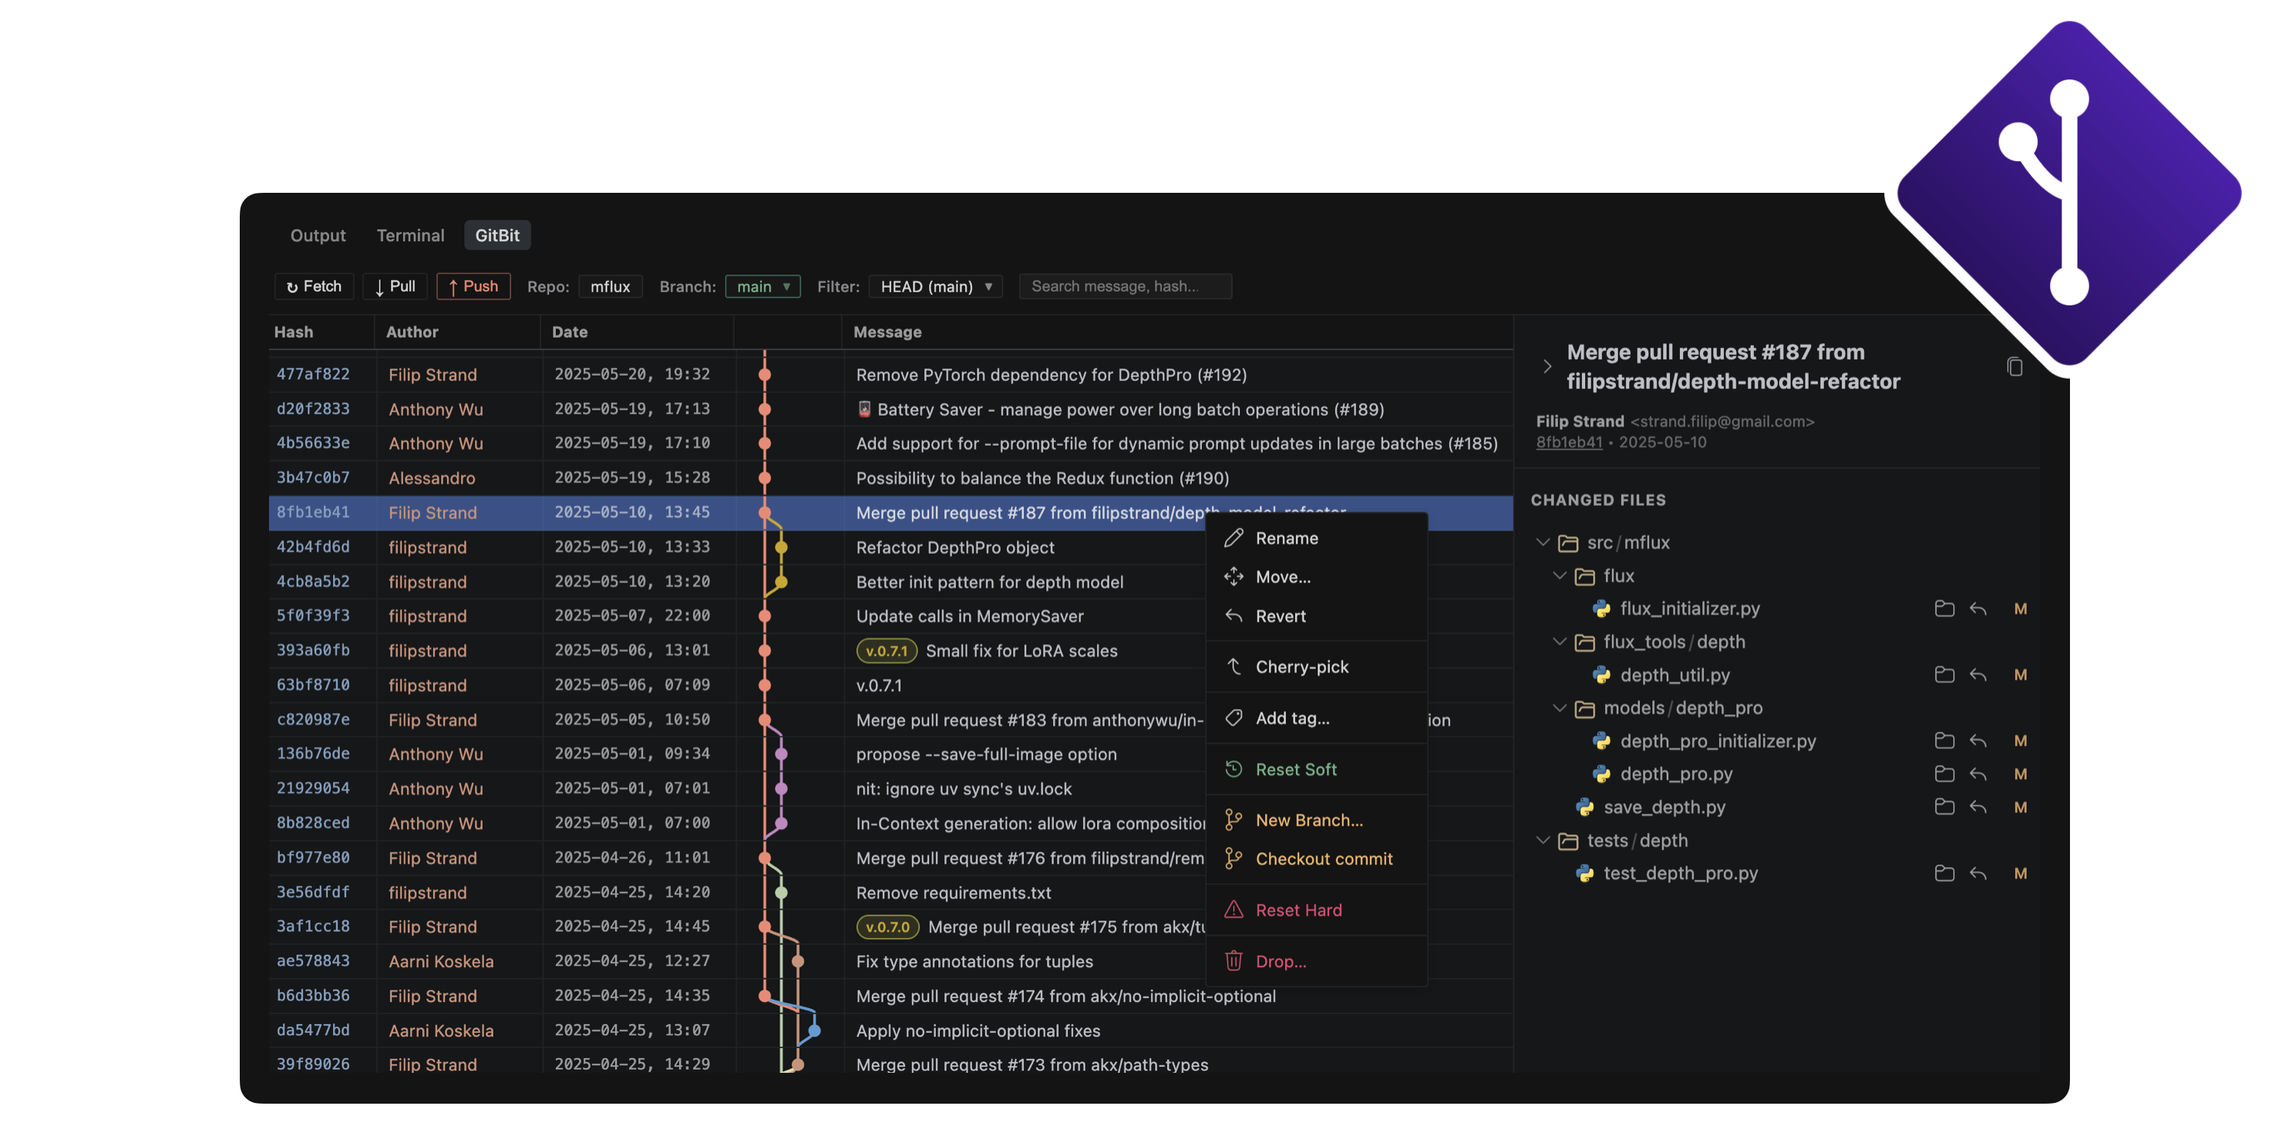
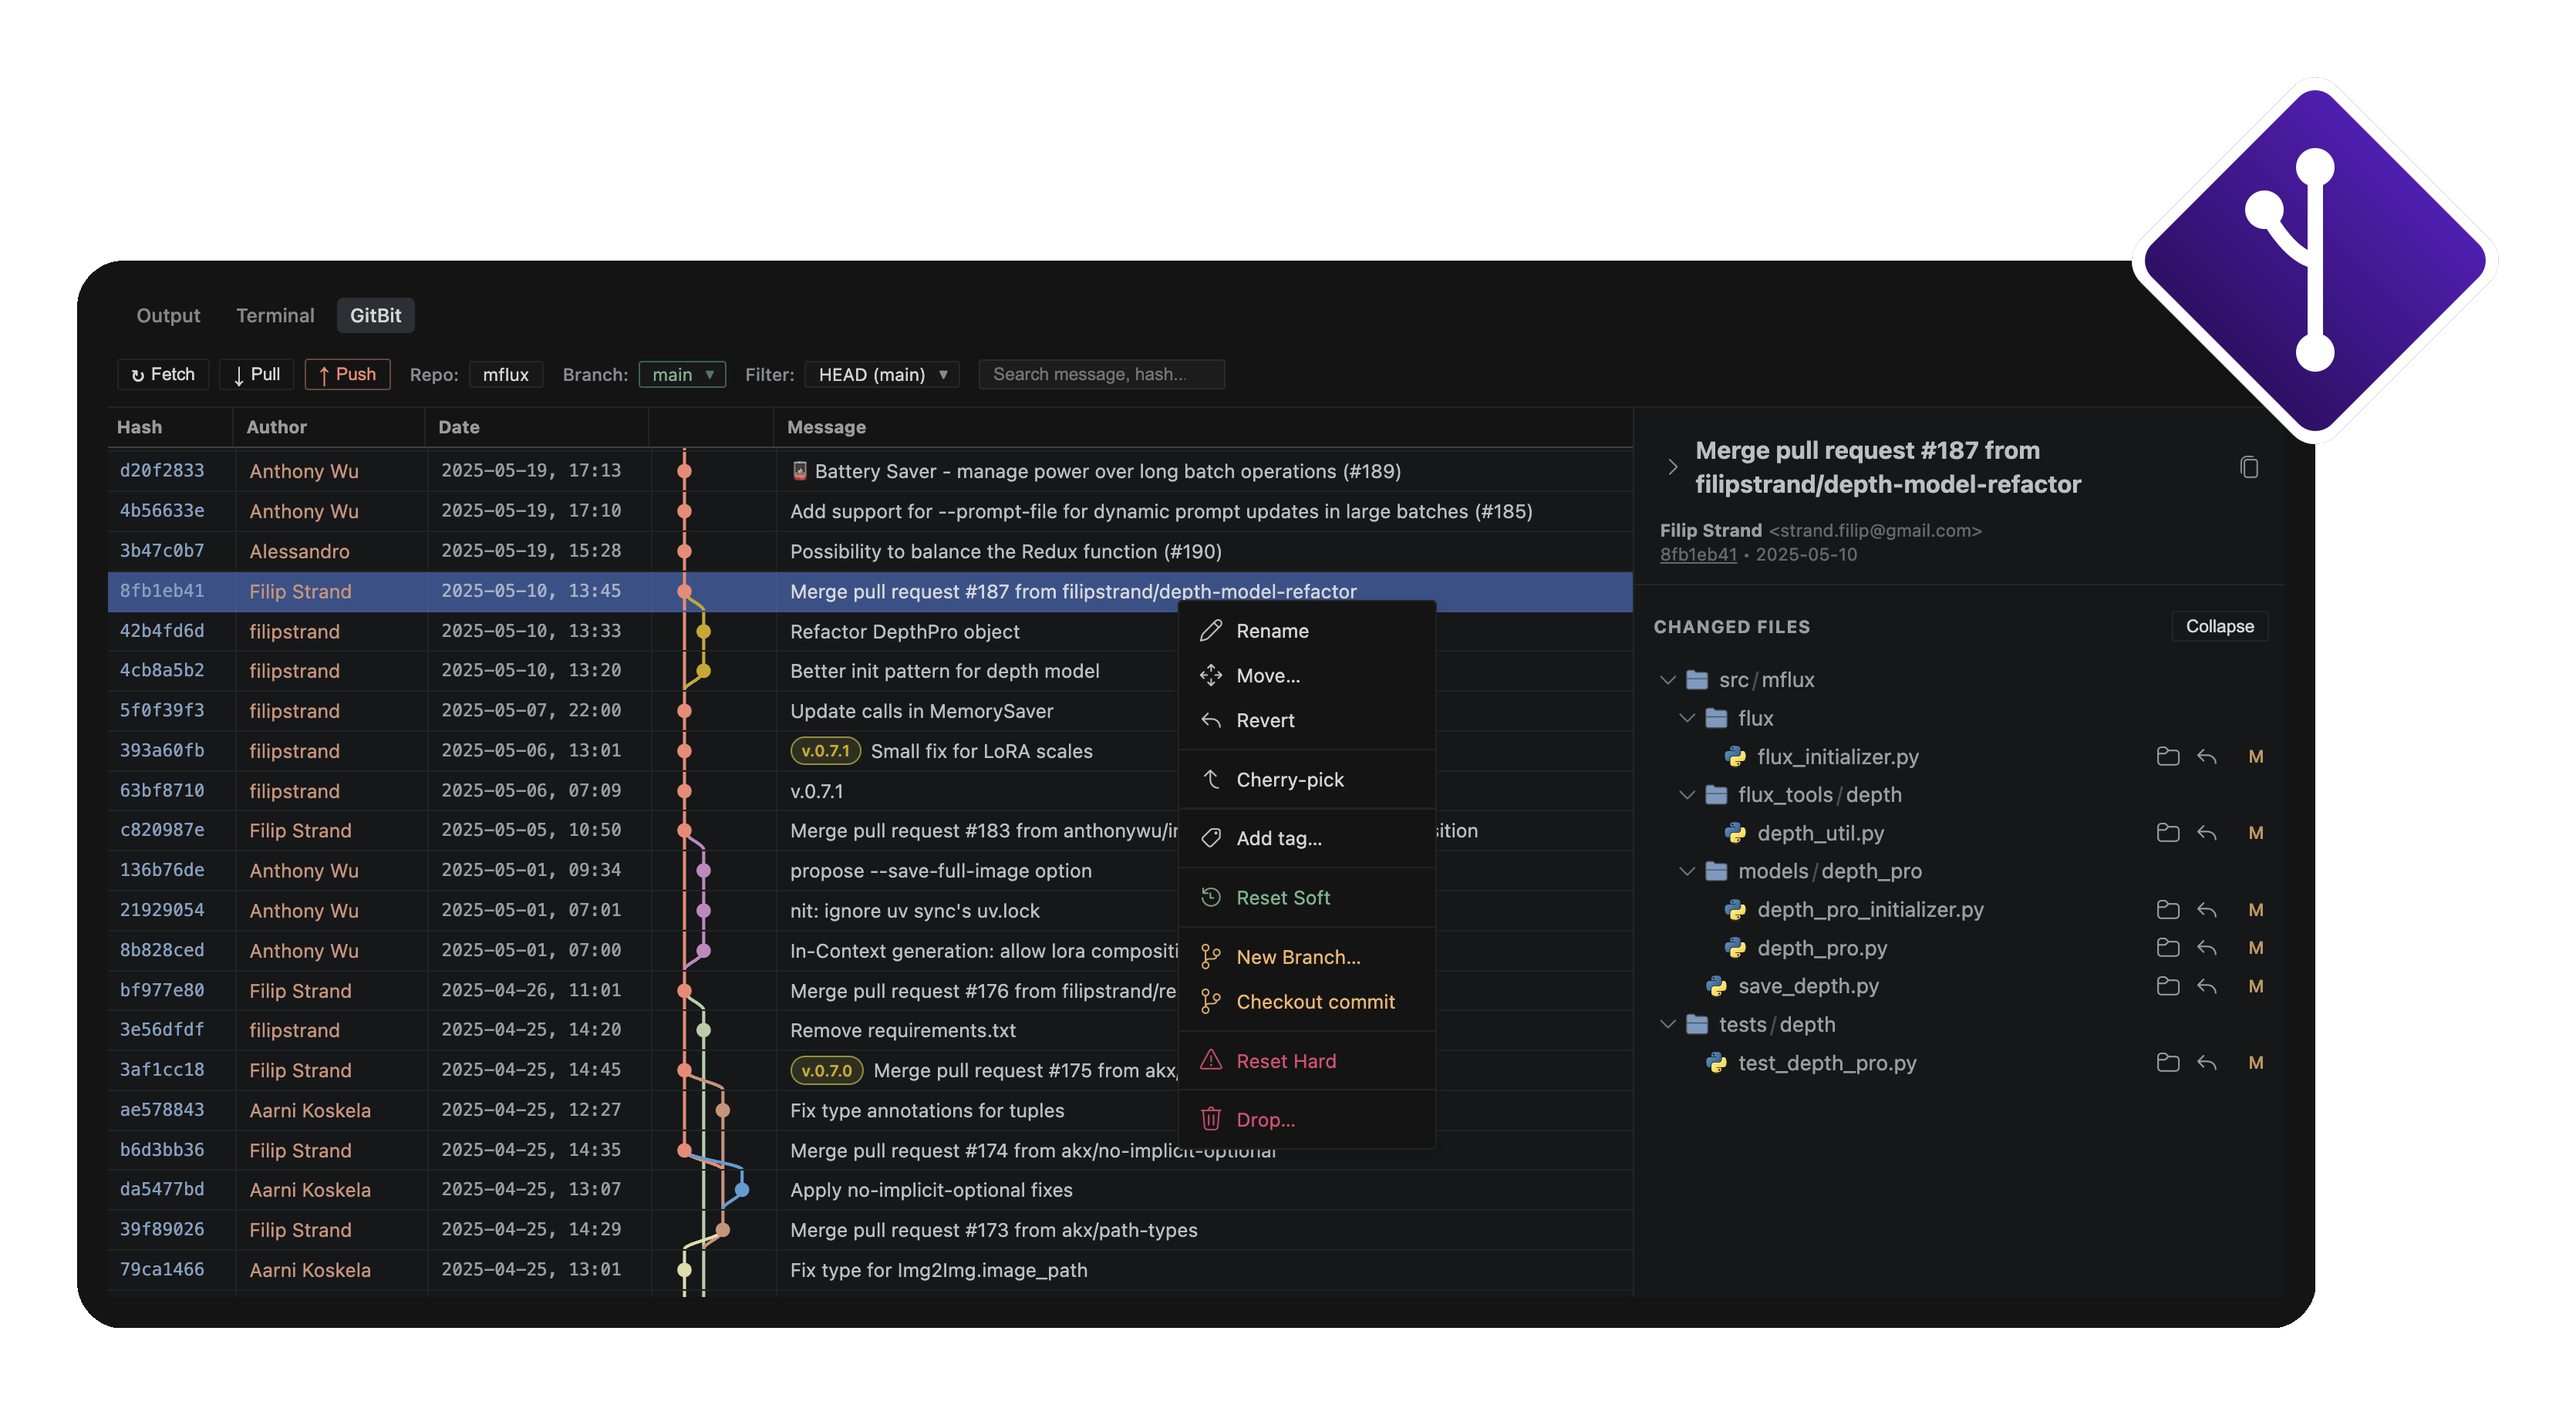
update screenshot

Changed region(s): [[0.0311, 0.0, 0.9946, 0.9933], [0.5284, 0.6208, 0.5905, 0.6829], [0.5595, 0.5587, 0.5905, 0.5897]]

diff --git a/combine_images.py b/combine_images.py
@@ -1,0 +1,76 @@
+from PIL import Image, ImageOps, ImageDraw
+
+def add_rounded_corners(img, radius):
+    mask = Image.new("L", img.size, 0)
+    draw = ImageDraw.Draw(mask)
+    draw.rounded_rectangle((0, 0) + img.size, radius, fill=255)
+    img.putalpha(mask)
+    return img
+
+def combine():
+    # Load images
+    a = Image.open("media/raw_screenshot.png").convert("RGBA")
+    logo = Image.open("media/logo.png").convert("RGBA")
+    
+    # Background color sampled from a.png
+    bg_color = (20, 20, 20, 255)
+    
+    # Create a rounded frame for a.png with balanced space
+    padding_x = 40
+    padding_top = 40
+    padding_bottom = 40 # Reduced from 80 to make the chin smaller
+    
+    frame_size = (a.size[0] + padding_x * 2, a.size[1] + padding_top + padding_bottom)
+    frame = Image.new("RGBA", frame_size, (0, 0, 0, 0))
+    
+    # Draw the rounded rectangle frame
+    draw = ImageDraw.Draw(frame)
+    frame_radius = 60
+    draw.rounded_rectangle((0, 0) + frame_size, frame_radius, fill=bg_color)
+    
+    # Paste a.png onto the frame
+    a_rounded = add_rounded_corners(a, 10)
+    frame.paste(a_rounded, (padding_x, padding_top), a_rounded)
+    
+    # Scale logo (no rotation)
+    logo_scaled = logo.copy()
+    logo_scaled.thumbnail((650, 650), Image.LANCZOS)
+    
+    # Calculate final canvas size with padding
+    canvas_padding = 200
+    logo_overlap_x = logo_scaled.size[0] // 2
+    logo_overlap_y = logo_scaled.size[1] // 2
+    
+    total_width = frame.size[0] + logo_overlap_x + (canvas_padding * 2)
+    total_height = frame.size[1] + logo_overlap_y + (canvas_padding * 2)
+    
+    canvas = Image.new("RGBA", (total_width, total_height), (0, 0, 0, 0))
+    
+    # Paste window/frame
+    window_x = canvas_padding
+    window_y = canvas_padding + logo_overlap_y
+    canvas.paste(frame, (window_x, window_y), frame)
+    
+    # Paste logo
+    # Positioned at the top right of the frame
+    logo_x = window_x + frame.size[0] - logo_overlap_x
+    logo_y = window_y - logo_overlap_y
+    canvas.paste(logo_scaled, (logo_x, logo_y), logo_scaled)
+    
+    # Crop to content plus a uniform padding
+    bbox = canvas.getbbox()
+    if bbox:
+        canvas = canvas.crop(bbox)
+        final_padding = 100
+        new_size = (canvas.size[0] + final_padding * 2, canvas.size[1] + final_padding * 2)
+        final_canvas = Image.new("RGBA", new_size, (0, 0, 0, 0))
+        final_canvas.paste(canvas, (final_padding, final_padding), canvas)
+        canvas = final_canvas
+
+    # Save result
+    output_path = "/Users/filipstrand/Desktop/combined_transparent.png"
+    canvas.save(output_path, "PNG")
+    print(f"Saved combined image to {output_path}")
+
+if __name__ == "__main__":
+    combine()
